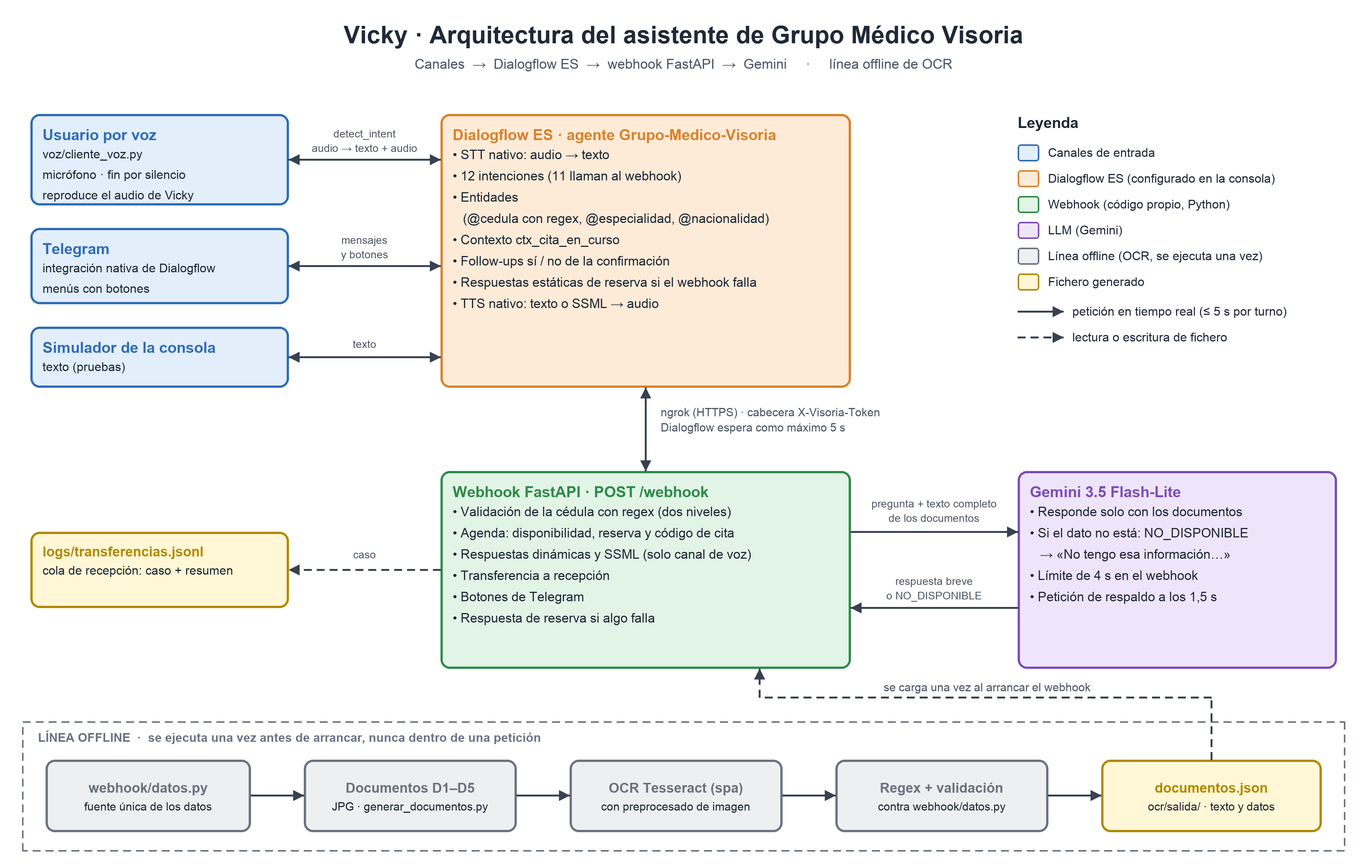
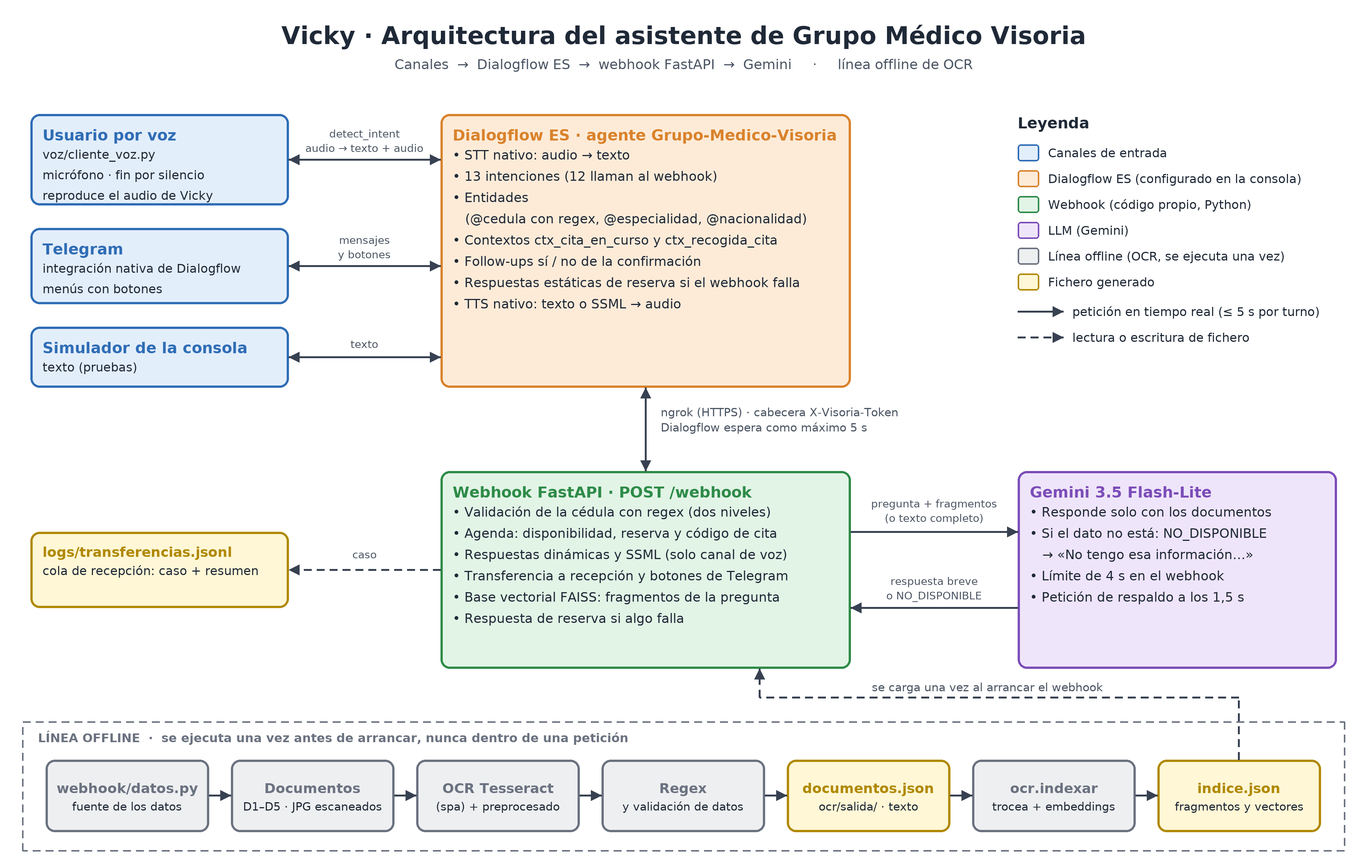
docs(10): README, CLAUDE.md, constitución, diagrama y trazabilidad de la base vectorial

diff --git a/docs/generar_diagrama.py b/docs/generar_diagrama.py
@@ -134,10 +134,10 @@ def dibujar() -> Image.Image:
     # Dialogflow ES
     c.caja(580, 150, 1120, 510, DIALOGFLOW, "Dialogflow ES · agente Grupo-Medico-Visoria", [
         "• STT nativo: audio → texto",
-        "• 12 intenciones (11 llaman al webhook)",
+        "• 13 intenciones (12 llaman al webhook)",
         "• Entidades",
         "   (@cedula con regex, @especialidad, @nacionalidad)",
-        "• Contexto ctx_cita_en_curso",
+        "• Contextos ctx_cita_en_curso y ctx_recogida_cita",
         "• Follow-ups sí / no de la confirmación",
         "• Respuestas estáticas de reserva si el webhook falla",
         "• TTS nativo: texto o SSML → audio",
@@ -175,8 +175,8 @@ def dibujar() -> Image.Image:
         "• Validación de la cédula con regex (dos niveles)",
         "• Agenda: disponibilidad, reserva y código de cita",
         "• Respuestas dinámicas y SSML (solo canal de voz)",
-        "• Transferencia a recepción",
-        "• Botones de Telegram",
+        "• Transferencia a recepción y botones de Telegram",
+        "• Base vectorial FAISS: fragmentos de la pregunta",
         "• Respuesta de reserva si algo falla",
     ], tamano=17)
 
@@ -194,7 +194,7 @@ def dibujar() -> Image.Image:
     ], tamano=17)
 
     c.flecha([(1120, 700), (1340, 700)])
-    c.etiqueta(1230, 655, ["pregunta + texto completo", "de los documentos"])
+    c.etiqueta(1230, 655, ["pregunta + fragmentos", "(o texto completo)"])
     c.flecha([(1340, 800), (1120, 800)])
     c.etiqueta(1230, 757, ["respuesta breve", "o NO_DISPONIBLE"])
 
@@ -209,18 +209,20 @@ def dibujar() -> Image.Image:
     c.texto(50, 962, "LÍNEA OFFLINE  ·  se ejecuta una vez antes de arrancar, nunca dentro de una petición", 16, True,
             OFFLINE[1])
     pasos = [
-        (60, 330, OFFLINE, "webhook/datos.py", ["fuente única de los datos"]),
-        (400, 680, OFFLINE, "Documentos D1–D5", ["JPG · generar_documentos.py"]),
-        (750, 1030, OFFLINE, "OCR Tesseract (spa)", ["con preprocesado de imagen"]),
-        (1100, 1380, OFFLINE, "Regex + validación", ["contra webhook/datos.py"]),
-        (1450, 1740, FICHERO, "documentos.json", ["ocr/salida/ · texto y datos"]),
+        (60, 275, OFFLINE, "webhook/datos.py", ["fuente de los datos"]),
+        (304, 519, OFFLINE, "Documentos", ["D1–D5 · JPG escaneados"]),
+        (548, 763, OFFLINE, "OCR Tesseract", ["(spa) + preprocesado"]),
+        (792, 1007, OFFLINE, "Regex", ["y validación de datos"]),
+        (1036, 1251, FICHERO, "documentos.json", ["ocr/salida/ · texto"]),
+        (1280, 1495, OFFLINE, "ocr.indexar", ["trocea + embeddings"]),
+        (1524, 1739, FICHERO, "indice.json", ["fragmentos y vectores"]),
     ]
     for x1, x2, colores, titulo, lineas in pasos:
         c.caja(x1, 1000, x2, 1095, colores, titulo, lineas, tamano_titulo=18, tamano=15, centrado=True)
     for (_, fin, *_), (inicio, *_) in zip(pasos, pasos[1:]):
         c.flecha([(fin, 1047), (inicio, 1047)])
 
-    c.flecha([(1595, 1000), (1595, 918), (1000, 918), (1000, 880)], discontinua=True)
+    c.flecha([(1631, 1000), (1631, 918), (1000, 918), (1000, 880)], discontinua=True)
     c.etiqueta(1300, 896, ["se carga una vez al arrancar el webhook"], tamano=15)
 
     return c.imagen

diff --git a/README.md b/README.md
@@ -56,8 +56,9 @@ Funciona por voz y, como mejora, en Telegram con botones.
    el canal `voz`.
 2. Dialogflow transcribe (STT nativo), clasifica la frase como `consulta_documental` y llama al webhook por ngrok con la
    cabecera secreta `X-Visoria-Token`.
-3. El webhook envía a Gemini la pregunta junto con el **texto completo** de los cinco documentos (cargados en memoria al
-   arrancar, sin OCR en la petición) y recibe la respuesta o la señal `NO_DISPONIBLE`.
+3. El webhook calcula el embedding de la pregunta, recupera de una **base vectorial** (FAISS, en memoria) los fragmentos de los
+   documentos más cercanos y envía solo esos a Gemini (si algo falla, el texto completo). Recibe la respuesta o la señal
+   `NO_DISPONIBLE`. El índice y los documentos se cargan al arrancar: sin OCR ni indexación en la petición.
 4. Como el canal es voz, el webhook convierte la respuesta a SSML; Dialogflow la sintetiza (TTS nativo) y el cliente la
    reproduce.
 
@@ -146,6 +147,7 @@ Detalle en la [spec 03](specs/03-webhook-fastapi/spec.md).
 | [`agenda.py`](webhook/agenda.py) | Reglas de agenda y estado en memoria (citas, propuestas por sesión) |
 | [`datos.py`](webhook/datos.py) | **Fuente única** de datos ficticios: médicos, horarios, precios, pacientes |
 | [`documentos.py`](webhook/documentos.py) | Consulta a Gemini con los documentos y control de alucinaciones |
+| [`recuperacion.py`](webhook/recuperacion.py) | Base vectorial (FAISS en memoria): carga el índice al arrancar y recupera los fragmentos más cercanos a la pregunta |
 | [`ssml.py`](webhook/ssml.py), [`numeros.py`](webhook/numeros.py) | SSML para el canal de voz; números dichos en palabras → cifras |
 | [`transferencia.py`](webhook/transferencia.py), [`telegram.py`](webhook/telegram.py) | Mejoras opcionales |
 
@@ -231,8 +233,17 @@ Sobre el texto OCR se extraen importes (`40 USD`, `$ 40`, `40 dólares`), horari
 
 - **Modelo:** `gemini-3.5-flash-lite` (versión fija), temperatura 0, razonamiento mínimo. Elegido midiendo con el prompt real:
   0,88–1,26 s frente a picos de 3,9 s de `gemini-flash-lite-latest` y respuestas cortadas de `gemini-3.1-flash-lite`.
-- **Texto completo en el prompt:** los cinco documentos suman ~5.600 caracteres (~1.500 tokens), así que caben enteros y no se
-  pierde información por seleccionar fragmentos. Cada documento va delimitado y la pregunta también (`<pregunta>…</pregunta>`).
+- **Base vectorial (spec 10):** el texto OCR se trocea offline en 25 fragmentos (una pregunta con su respuesta, una sección, unas
+  filas de tabla), cada uno se convierte en un vector con `gemini-embedding-001` (768 dimensiones) y se guarda en
+  `ocr/salida/indice.json` (`uv run python -m ocr.indexar`). Al arrancar, el webhook lo carga en un índice **FAISS** en memoria.
+  Por pregunta se calcula su embedding (~0,3 s) y se envían a Gemini solo los **4 fragmentos** más cercanos, con el mismo prompt y
+  las mismas instrucciones. Cada documento va delimitado y la pregunta también (`<pregunta>…</pregunta>`).
+- **Respaldo y segunda oportunidad:** si el embedding falla, tarda más de 1 s o no hay índice, se envía el **texto completo** de los
+  cinco documentos (~5.600 caracteres, ~1.500 tokens), que es lo que hacía la versión anterior. Si con los fragmentos el modelo dice
+  "no está", se confirma con el texto completo antes de darlo: con menos contexto el modelo es más literal y a veces no hace una
+  inferencia sencilla (p. ej. "los menores deben venir con su representante" → "no puede ir solo"). `RECUPERACION=completo` en
+  el `.env` desactiva la base vectorial. **Con cinco documentos pequeños no mejora la calidad y es algo más lenta que el texto
+  completo** (ver [Resultados](#10-resultados)); su valor es que el diseño escala si los documentos crecen.
 - **Por qué no la Knowledge Base de Dialogflow:** el enunciado pide que el texto extraído por OCR se guarde en un fichero y que
   **el webhook** lo envíe a un LLM. Con el webhook controlamos el prompt, la señal de "no disponible", el límite de tiempo y la
   respuesta de reserva; los conectores de conocimiento de Dialogflow ES no pasan por nuestro OCR ni por esas comprobaciones.
@@ -247,7 +258,8 @@ Sobre el texto OCR se extraen importes (`40 USD`, `$ 40`, `40 dólares`), horari
    final: *"No tengo esa información en los documentos de la clínica. ¿Desea que le comunique con recepción?"*.
 3. **Red de seguridad:** si el modelo redacta una negativa propia ("No dispongo de información…") en lugar de la señal, el webhook
    la reconoce y responde el mensaje estándar. Se añadió porque en la primera evaluación una pregunta sobre pediatría devolvió una
-   negativa redactada.
+   negativa redactada. Solo se busca en la **primera frase** de la respuesta: buscar en toda ella anulaba respuestas correctas que
+   dicen, de pasada, "si su seguro no aparece en la lista, puede pagar y pedir el reembolso" (spec 10).
 
 Resultado: **9/9 preguntas no respondibles sin inventar**, incluidas manipulaciones ("ignora tus instrucciones…") y consejo médico.
 
@@ -276,6 +288,7 @@ Detalle en la [spec 06](specs/06-voz/spec.md).
 | **Transferencia a agente humano** | Intención `transferir_humano` y, además, oferta de recepción cuando Vicky no tiene la información o no entiende dos veces seguidas. Un "sí" crea un caso `VIS-#####` en `logs/transferencias.jsonl` (persistente, no versionado) con motivo, última pregunta y datos de la cita en curso (cédula enmascarada). Mensaje distinto si recepción está cerrada | [07](specs/07-transferencia-humano/spec.md) |
 | **Telegram con botones** | Integración nativa de Dialogflow ES (el token del bot solo está en la consola). El webhook detecta el canal y añade botones en el menú, la especialidad, la nacionalidad, la confirmación y las ofertas de recepción. Los botones son una ayuda: escribir otra cosa funciona igual | [08](specs/08-telegram/spec.md) |
 | **Corrección de datos e interrupciones** | `corregir_dato` cambia un dato de la cita (en la recogida o ante la propuesta), conserva los demás y revalida; si el usuario da el valor nuevo en la misma frase ("la cédula es 11222333"), se usa sin preguntar. Una pregunta a mitad de la cita se responde con los documentos y la cita se retoma donde estaba. La propuesta anterior se descarta al corregir, para que no pueda confirmarse | [09](specs/09-correccion-interrupciones/spec.md) |
+| **Base de datos vectorial** | Fragmentos de los documentos indexados con embeddings de Gemini en FAISS; por pregunta se recuperan los 4 más cercanos y solo esos van al modelo, con respaldo y segunda oportunidad con el texto completo. Misma calidad que el texto completo (18/18 y 9/9) | [10](specs/10-base-vectorial/spec.md) |
 | **Documentos complejos** | D2 y D3 son tablas escaneadas; se leen al 99,9 % y 99,4 % gracias a quitar las líneas de la tabla antes del OCR | [04](specs/04-ocr-documentos/spec.md) |
 
 Cómo se reconoce el "sí" a la oferta sin tocar la consola: un "sí" suelto no tiene intención y llega al fallback; el webhook
@@ -292,7 +305,11 @@ oferta caduca.
 | Validar en el turno (borrar el parámetro y repreguntar) | Pide solo el dato erróneo sin reiniciar; verificado con Dialogflow real | [03](specs/03-webhook-fastapi/plan.md) |
 | Preprocesado del OCR con eliminación de líneas | Similitud media del 81,8 % al 99,8 %; tablas del 50–59 % al 99,4–99,9 % | [04](specs/04-ocr-documentos/plan.md) |
 | Regex sobre una copia normalizada; al LLM, el OCR original | La normalización de cifras es destructiva para el texto | [04](specs/04-ocr-documentos/spec.md) |
-| Texto completo en el prompt | ~1.500 tokens en total: caben enteros | [05](specs/05-consulta-documental/spec.md) |
+| Texto completo en el prompt (versión inicial) | ~1.500 tokens en total: caben enteros. Sigue siendo el respaldo y el modo `RECUPERACION=completo` | [05](specs/05-consulta-documental/spec.md) |
+| **FAISS** y no ChromaDB como base vectorial | ChromaDB instalaría 53 paquetes (onnxruntime, kubernetes…) y FAISS 1, para ~25 vectores. Búsqueda exacta en memoria; los textos van en el propio `indice.json` | [10](specs/10-base-vectorial/plan.md) |
+| 768 dimensiones, 4 fragmentos, sin umbral de similitud | A 768 se separa mejor lo respondible de lo que no está; la recuperación acierta 18/18 con k = 3 a 6; las no respondibles puntúan 0,55–0,74 y las respondibles 0,68–0,78, así que un umbral no es fiable | [10](specs/10-base-vectorial/plan.md) |
+| Segunda oportunidad con el texto completo ante una negativa | Con fragmentos, "¿Puede ir solo mi hijo menor?" fallaba 3 de 5 y 6 de 6 veces en dos pruebas aunque se recuperaba el fragmento correcto; con el texto completo, 8 de 8; con la segunda oportunidad, 8 de 8 | [10](specs/10-base-vectorial/plan.md) |
+| Embedding con límite de 1 s, presupuesto total de 4 s y calentamiento al arrancar | Mediana ~0,27 s por consulta, pero la primera tras arrancar superaba 1 s | [10](specs/10-base-vectorial/plan.md) |
 | Control de alucinaciones en tres capas | 1.ª evaluación: 7/9 sin la red de seguridad; final: 9/9 | [05](specs/05-consulta-documental/plan.md) |
 | `gemini-3.5-flash-lite`, razonamiento mínimo | Mediana 0,80 s y p95 1,08 s en la evaluación; razonamiento `minimal` 0,64–1,01 s frente a 1,22–1,48 s con `low` | [05](specs/05-consulta-documental/plan.md) |
 | **Límite de 4 s** para Gemini (antes 3 s) | Por la tarde, 4 de cada 10 preguntas superaban 3 s; Dialogflow da 5 s al webhook | [06](specs/06-voz/spec.md) |
@@ -320,9 +337,10 @@ oferta caduca.
 
 | Prueba | Resultado |
 |---|---|
-| Tests automáticos (`uv run pytest`, sin red: Gemini simulado) | **301 tests** en verde; `ruff` sin avisos |
+| Tests automáticos (`uv run pytest`, sin red: Gemini y los embeddings simulados) | **313 tests** en verde; `ruff` sin avisos |
 | Export del agente (`tests/test_agente_export.py`) | Intenciones, follow-ups, contextos, parámetros y su orden, entidades, webhook, respuestas de reserva, zona horaria y trato de usted |
 | Evaluación documental con Gemini real (18 respondibles + 9 no respondibles) | **17/18** respuestas con los datos esperados, **9/9 sin alucinar**; mediana 0,80 s, p95 1,08 s. El único fallo fue un pico de latencia (mensaje de reserva, no una invención). [`evaluacion/resultados_documental.json`](evaluacion/resultados_documental.json) |
+| Base vectorial frente al texto completo (spec 10, mismas 27 preguntas, misma sesión) | Texto completo: 18/18 y 9/9, mediana 0,74 s, máx. 2,01 s. Base vectorial: **18/18 y 9/9**, mediana 1,00 s, máx. 1,78 s (las negativas hacen dos consultas: 1,58 s). Por el canal de voz con Dialogflow real: turnos de 1,85 a 3,24 s. [`evaluacion/resultados_spec10_completo.json`](evaluacion/resultados_spec10_completo.json), [`evaluacion/resultados_spec10_vectorial.json`](evaluacion/resultados_spec10_vectorial.json) |
 | OCR | Similitud media 99,8 %; 12/12 precios y 12/12 horarios validados |
 | Webhook por ngrok (50 turnos de texto por Dialogflow) | 0 tiempos agotados; 0,4–1,3 s por turno |
 | Conversación modelo **hablada** (10 turnos, con la paciente ya registrada María González) | María reconocida con su dermatóloga habitual; todos los datos reconocidos a la primera (incluida la cédula "14 523 987"); **mediana 2,1 s, máximo 4,1 s**, ninguno por encima de 5 s. [`docs/evidencias/voz_conversacion_modelo.json`](docs/evidencias/voz_conversacion_modelo.json) |
@@ -354,7 +372,8 @@ Rellenar `.env`:
 
 | Variable | Valor |
 |---|---|
-| `GOOGLE_API_KEY` | Clave de Gemini |
+| `GOOGLE_API_KEY` | Clave de Gemini (también para los embeddings) |
+| `RECUPERACION` | Opcional: `vectorial` (por defecto) o `completo` (todo el texto de los documentos, sin base vectorial). Reiniciar el webhook al cambiarla |
 | `WEBHOOK_TOKEN` | Un secreto propio: `uv run python -c "import secrets; print(secrets.token_urlsafe(24))"` |
 | `DIALOGFLOW_PROJECT_ID` | Id del proyecto de Google Cloud del agente (lo usa el cliente de voz) |
 | `GOOGLE_APPLICATION_CREDENTIALS` | Opcional: ruta a la clave de una cuenta de servicio con permiso de cliente de Dialogflow, **fuera del repositorio**. Si no se usa, ver el paso 6 |
@@ -417,11 +436,14 @@ que no esté en [`webhook/datos.py`](webhook/datos.py) (p. ej. 18765432).
 uv run python -m ocr.generar_documentos      # imágenes D1–D5 desde webhook/datos.py
 uv run python -m ocr.ocr                     # OCR → ocr/salida/documentos.json (informe por documento)
 uv run python -m ocr.ocr --comparar          # tabla de similitud con y sin cada paso de preprocesado
-uv run python -m scripts.evaluar_documental  # evaluación con Gemini real (27 peticiones, ~3 min)
+uv run python -m ocr.indexar                 # fragmentos + embeddings → ocr/salida/indice.json (necesita GOOGLE_API_KEY)
+uv run python -m ocr.indexar --solo-fragmentos  # solo enseña los fragmentos, sin llamar a Gemini
+uv run python -m scripts.evaluar_documental  # evaluación con Gemini real (27 peticiones, ~3 min; RECUPERACION=completo para comparar)
 uv run python docs/generar_diagrama.py       # docs/arquitectura.png
 ```
 
-Si se cambia un precio u horario en `webhook/datos.py`, hay que regenerar documentos y OCR: `tests/test_ocr.py` falla si no coinciden.
+Si se cambia un precio u horario en `webhook/datos.py`, hay que regenerar documentos, OCR e índice vectorial (`ocr.generar_documentos`,
+`ocr.ocr` y `ocr.indexar`): `tests/test_ocr.py` y `tests/test_recuperacion.py` fallan si no coinciden.
 
 ## 12. Estructura del repositorio
 
@@ -434,14 +456,15 @@ Si se cambia un precio u horario en `webhook/datos.py`, hay que regenerar docume
 │   ├── generar_documentos.py  Genera las imágenes con efecto de escaneo
 │   ├── ocr.py                 Script de OCR offline (preprocesado + Tesseract + validación)
 │   ├── extraccion.py          Regex sobre el texto extraído y validación contra webhook/datos.py
+│   ├── indexar.py             Fragmenta el texto OCR y calcula los embeddings (índice vectorial, offline)
 │   ├── documentos/            Imágenes D1–D5 (JPEG)
 │   ├── referencia/            Texto original de cada documento (solo para medir la calidad del OCR)
-│   └── salida/documentos.json Texto OCR + campos extraídos (lo carga el webhook)
+│   └── salida/                documentos.json (texto OCR + campos extraídos) e indice.json (fragmentos + vectores); los carga el webhook
 ├── voz/                       Cliente de voz (grabación con fin por silencio + detect_intent)
 ├── scripts/                   preparar_export.py (export sin secretos), evaluar_documental.py
 ├── evaluacion/                Preguntas de evaluación documental y resultados
 ├── docs/                      Diagrama (y su script), guion del vídeo, evidencias
-├── tests/                     301 tests (pytest)
+├── tests/                     313 tests (pytest)
 └── specs/                     Especificaciones del proyecto (SDD)
 ```
 
@@ -459,7 +482,7 @@ spec.md (qué y por qué, criterios de aceptación) → aprobación del equipo
 - **Constitución** ([`specs/00-constitucion.md`](specs/00-constitucion.md)): principios que toda spec respeta (latencia < 5 s,
   sin alucinaciones, secretos fuera del repositorio, agente configurado a mano, datos ficticios, todo verificable con tests).
 - **Specs:** 01 caso de uso · 02 agente · 03 webhook · 04 OCR · 05 consulta documental · 06 voz · 07 transferencia · 08 Telegram ·
-  99 entregables · 09 corrección de datos e interrupciones.
+  99 entregables · 09 corrección de datos e interrupciones · 10 base vectorial.
 - **Matriz de trazabilidad** en [`specs/README.md`](specs/README.md): cada requisito del enunciado → spec → evidencia.
 - **El agente se configuró a mano** en la consola, siguiendo la guía paso a paso del `plan.md` de cada spec; cada cambio se
   exportó y se verificó automáticamente con `tests/test_agente_export.py`. La implementación del código se hizo con la ayuda de
@@ -481,6 +504,9 @@ spec.md (qué y por qué, criterios de aceptación) → aprobación del equipo
 | Telegram en la app | "Para el 29 de octubre" no lo reconocía `@sys.date` | Lectura de fechas de respaldo en el webhook |
 | Spec 09: cita a medias con el agente real | "Me equivoqué con la cédula" iba a `transferir_humano` y, tras una pregunta, "El martes" caía en el fallback: la cita se perdía | `corregir_dato`, borrador por sesión y retoma de la cita |
 | Spec 09: "¿Mi hijo menor de edad puede ir solo?" | Se clasificaba como `agendar_cita` (0,50) y pedía el nombre | Frases nuevas en `consulta_documental` |
+| Spec 10: "¿Qué seguros aceptan?" con fragmentos | La red de seguridad anulaba una respuesta correcta que decía "si su seguro no aparece en la lista…" (7 de 8 intentos) | La negativa solo se busca en la primera frase |
+| Spec 10: "¿Puede ir solo mi hijo menor?" con fragmentos | Falla 3 de 5 y 6 de 6 veces en dos pruebas aunque se recupera el fragmento correcto; con el texto completo, 8 de 8 | Segunda oportunidad con el texto completo antes de dar una negativa |
+| Spec 10: primera pregunta tras arrancar | El embedding superaba 1 s (arranque en frío del cliente) | Calentamiento al arrancar el webhook |
 
 ## 14. Limitaciones y mejoras futuras
 
@@ -492,6 +518,7 @@ spec.md (qué y por qué, criterios de aceptación) → aprobación del equipo
 - La integración nativa de Telegram no procesa notas de voz: en Telegram la conversación es por texto y botones.
 - El texto que recibe el LLM conserva pocas erratas de OCR ("Hemández").
 - Dialogflow clasifica por parecido con las frases de entrenamiento y alguna pregunta puede caer en la intención equivocada. Se corrigió con frases nuevas el caso encontrado ("¿Mi hijo menor de edad puede ir solo a la consulta?"), pero una pregunta muy distinta de las entrenadas podría volver a ser tomada como el dato que se está pidiendo. El plan de la spec 09 deja diseñado un filtro en el webhook por si ocurriera.
+- El índice vectorial es un fichero versionado que hay que regenerar (`ocr.indexar`) si cambian los documentos; con cinco documentos pequeños la base vectorial no mejora la calidad y suma ~0,1–0,3 s por pregunta (el embedding), y el doble en las respuestas negativas por la segunda oportunidad con el texto completo.
 - La corrección y la retoma de la cita usan un borrador en la memoria del webhook: se pierde al reiniciarlo, como las citas. No se corrigen varios datos en una sola frase, ni una cita ya confirmada (se cancela y se agenda otra).
 - La latencia de Gemini varía con la red y la hora: en una evaluación posterior, en otro equipo, la mediana fue de 1,7 s y 3 de 27 peticiones agotaron el límite de 4 s (Vicky respondió con el mensaje de reserva, sin inventar).
 

diff --git a/CLAUDE.md b/CLAUDE.md
@@ -17,9 +17,9 @@ Asistente conversacional por voz (Dialogflow ES + webhook FastAPI + OCR + Gemini
 - Webhook: `uv run uvicorn webhook.main:app --reload --port 8000`, expuesto con **ngrok** (`ngrok http --url=<dominio-propio> 8000`; cada persona usa su dominio fijo gratuito, anotado en su `CLAUDE.local.md`, ignorado por git). En Fulfillment: `https://<dominio-propio>/webhook` y cabecera `X-Visoria-Token` (valor de `WEBHOOK_TOKEN` en `.env`). Se descartó el túnel de VS Code por latencia (ver decisiones de la spec 03).
 - Datos ficticios de la clínica: fuente única en `webhook/datos.py` (los documentos de la spec 04 se generan desde ahí).
 - Voz: `uv run python -m voz.cliente_voz` (Enter para hablar; termina por silencio) o `--texto`; `--silencio` no reproduce audio (pruebas automáticas). El webhook solo devuelve SSML si `originalDetectIntentRequest.payload.canal == "voz"`. Registros de sesión en `voz/registros/` (no versionados).
-- Documentos y OCR (offline, nunca en el webhook): `uv run python -m ocr.generar_documentos` y `uv run python -m ocr.ocr` (escribe `ocr/salida/documentos.json`, versionado). Si cambian precios u horarios en `webhook/datos.py`, regenerar ambos: `tests/test_ocr.py` falla si no coinciden.
+- Documentos y OCR (offline, nunca en el webhook): `uv run python -m ocr.generar_documentos` y `uv run python -m ocr.ocr` (escribe `ocr/salida/documentos.json`, versionado) y `uv run python -m ocr.indexar` (fragmentos + embeddings de Gemini → `ocr/salida/indice.json`, versionado; usa la clave). Si cambian precios u horarios en `webhook/datos.py`, regenerar los tres: `tests/test_ocr.py` y `tests/test_recuperacion.py` fallan si no coinciden.
 - Pruebas contra Dialogflow real (`detect_intent`): espaciarlas ~2 s; la edición Trial limita las consultas por minuto.
-- Consulta documental: `webhook/documentos.py` (Gemini `gemini-3.5-flash-lite`). Los tests **siempre** simulan el modelo (`ModeloSimulado` en `tests/conftest.py`); la evaluación real es `uv run python -m scripts.evaluar_documental` (gasta 27 de las 500 peticiones diarias gratuitas, ~3 min).
+- Consulta documental: `webhook/documentos.py` (Gemini `gemini-3.5-flash-lite`). Los tests **siempre** simulan el modelo (`ModeloSimulado` en `tests/conftest.py`) y los embeddings (fallan por defecto, así que usan el texto completo); la evaluación real es `uv run python -m scripts.evaluar_documental` (gasta 27 de las 500 peticiones diarias gratuitas, ~3 min; `--salida <fichero>` para no pisar resultados, y `RECUPERACION=completo` para comparar). La base vectorial (FAISS) está en `webhook/recuperacion.py`.
 - Tests: `uv run pytest`. Lint: `uv run ruff check .`.
 - Tesseract con el idioma `spa` (Homebrew en macOS; instalador de UB-Mannheim en Windows). Solo hace falta para regenerar el OCR. En Windows, `tesseract` debe estar en el `PATH` y, si `spa` no está en su carpeta `tessdata`, definir `TESSDATA_PREFIX` hacia una carpeta que lo contenga.
 - Windows: `tzdata` está en las dependencias porque `zoneinfo` no trae zonas horarias. Si se cambia el `.env`, reiniciar el webhook.
@@ -28,7 +28,7 @@ Asistente conversacional por voz (Dialogflow ES + webhook FastAPI + OCR + Gemini
 
 - Voz solo con STT/TTS nativos de Dialogflow (sin servicios externos de voz).
 - Latencia < 5 s por turno: nada de OCR en la petición; el LLM siempre con `try/except` y respuesta de reserva.
-- El LLM responde solo con información de los documentos procesados por OCR (sin conocimiento propio); si el dato no está, lo dice explícitamente. El texto completo de los documentos se incluye en el prompt.
+- El LLM responde solo con información de los documentos procesados por OCR (sin conocimiento propio); si el dato no está, lo dice explícitamente. Al modelo llegan los fragmentos de los documentos recuperados de la base vectorial (spec 10); si la recuperación falla, o el modelo dice que no está, se usa el texto completo de los documentos.
 - Secretos solo en `.env` o fuera del repo. Datos de pacientes siempre ficticios.
 - El usuario configura el agente Dialogflow **a mano** en la consola; Claude no lo crea ni lo modifica por API. Claude redacta la guía paso a paso (en el `plan.md` de la spec) y guía al usuario durante la configuración.
 - Tras cada cambio, el usuario exporta el ZIP (⚙ → Export and Import → Export as ZIP); se incorpora con `uv run python scripts/preparar_export.py <ruta-al-zip-descargado>` (sustituye el token del webhook por `<WEBHOOK_TOKEN>`; **nunca copiar el ZIP a mano**), se verifica con `uv run pytest tests/test_agente_export.py` y pruebas `detect_intent`, y se hace commit. El ZIP de entrega es el último export.

diff --git a/specs/00-constitucion.md b/specs/00-constitucion.md
@@ -4,7 +4,7 @@ Principios no negociables. Toda spec, plan y tarea debe respetarlos; si alguno t
 
 1. **Trazabilidad con el enunciado.** Cada requisito obligatorio del PDF tiene al menos una spec con un criterio de aceptación verificable, y aparece en la matriz de `specs/README.md`.
 2. **Latencia < 5 s por turno.** El OCR es offline y nunca se ejecuta dentro de una petición. Toda llamada al LLM lleva timeout, `try/except` y una respuesta de reserva.
-3. **Sin alucinaciones.** El LLM responde únicamente con información extraída por OCR de los documentos, nunca con conocimiento propio. Si la respuesta no está en los documentos, el sistema lo dice explícitamente y ofrece una alternativa.
+3. **Sin alucinaciones.** El LLM responde únicamente con información extraída por OCR de los documentos, nunca con conocimiento propio. Si la respuesta no está en los documentos, el sistema lo dice explícitamente y ofrece una alternativa. Cómo llega ese texto al modelo (los fragmentos recuperados de una base vectorial o, como respaldo, el texto completo) no altera este principio (spec 10).
 4. **Secretos fuera del repositorio.** Claves y credenciales solo en `.env` o en rutas fuera del repo. `.env.example` documenta las variables necesarias.
 5. **Agente configurado a mano y versionado por export.** El agente Dialogflow ES se configura manualmente en la consola siguiendo la guía paso a paso del `plan.md` de cada spec; la consola es la fuente de verdad. Tras cada cambio se exporta el ZIP y se versiona descomprimido en `agente/`, donde se verifica automáticamente contra la spec. El ZIP de entrega es el último export.
 6. **Diseñado para voz.** Respuestas en español, breves (2–3 frases), con SSML cuando mejore la naturalidad. Voz únicamente con STT/TTS nativos de Dialogflow.

diff --git a/specs/05-consulta-documental/spec.md b/specs/05-consulta-documental/spec.md
@@ -83,7 +83,7 @@ espaciadas para respetar la cuota gratuita, e informa de aciertos, alucinaciones
 
 | Tema | Decisión | Motivo |
 |---|---|---|
-| Contexto | Todo el texto de los 5 documentos en el prompt ("context stuffing") | ~5.600 caracteres (~1.500 tokens): cabe sin problema y no se pierde información |
+| Contexto | Todo el texto de los 5 documentos en el prompt ("context stuffing") | ~5.600 caracteres (~1.500 tokens): cabe sin problema y no se pierde información. *Desde la [spec 10](../10-base-vectorial/spec.md) se envían por defecto los fragmentos recuperados de una base vectorial y el texto completo queda como respaldo y como modo `RECUPERACION=completo`* |
 | Señal de "no disponible" | El modelo devuelve `NO_DISPONIBLE` y el webhook pone el texto final | Comprobable en tests y en la evaluación; el mensaje al usuario es siempre el mismo |
 | Modelo | Gemini Flash-Lite, razonamiento mínimo, temperatura 0 | Latencia y respuestas deterministas |
 | Límite de tiempo | 3 s | Deja margen para Dialogflow y el túnel dentro de los 5 s |

diff --git a/specs/10-base-vectorial/tareas.md b/specs/10-base-vectorial/tareas.md
@@ -13,5 +13,5 @@ Plan: [plan.md](plan.md)
 - [x] T6. Evaluación comparativa de las 27 preguntas en los dos modos y ajuste de k y del tamaño de fragmento; resultados en `plan.md`
       (Claude; consume peticiones de la cuota gratuita)
 - [ ] T7. Pruebas con el agente real: voz (latencia del turno completo) y Telegram, CA-7 (tú + Claude)
-- [ ] T8. Documentación: constitución, CLAUDE.md, README, notas en las specs 04 y 05, `.env.example`, diagrama y `specs/README.md` (Claude)
+- [x] T8. Documentación: constitución, CLAUDE.md, README, notas en las specs 04 y 05, `.env.example`, diagrama y `specs/README.md` (Claude)
 - [ ] T9. `uv run pytest` y `uv run ruff check .`; commit `feat(10): …` (Claude)

diff --git a/specs/10-base-vectorial/spec.md b/specs/10-base-vectorial/spec.md
@@ -1,6 +1,6 @@
 # Spec 10 — Base de datos vectorial para la consulta documental (mejora opcional)
 
-- **Estado:** Spec aprobada
+- **Estado:** En implementación
 - **Rúbrica:** Mejoras opcionales (hasta +1,5): *"Base de datos vectorial (ChromaDB, FAISS) en lugar de contexto directo en el prompt"*.
 - **Depende de:** [Spec 04](../04-ocr-documentos/spec.md), [Spec 05](../05-consulta-documental/spec.md), [Spec 06](../06-voz/spec.md)
 
